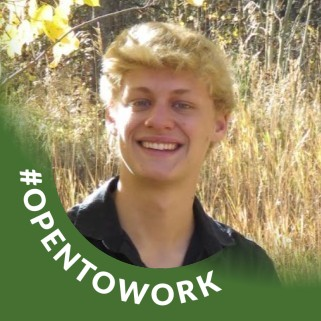
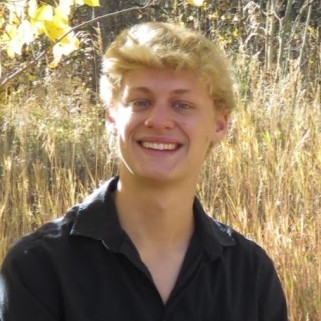
last minute check

Changed region(s): [[0.0, 0.0935, 1.0, 1.0]]

diff --git a/ProjectSourceCode/src/index.js b/ProjectSourceCode/src/index.js
@@ -204,7 +204,7 @@ app.get('/about', (req, res) => {
         'https://media.licdn.com/dms/image/D5603AQHY4U2MmD35hg/profile-displayphoto-shrink_800_800/0/1711482138961?e=2147483647&v=beta&t=N43M7l9f3tsz_f-D7BE08vtRAKMGxPsaNZcNzxMp6CI',
         'https://media.licdn.com/dms/image/C5603AQEGTJvp_niqCQ/profile-displayphoto-shrink_200_200/0/1662247464003?e=2147483647&v=beta&t=bM8TTrQBytKJZi2N-wBdqLGo-m3GR1eAbfdqZc-iM_w',
         'https://media.licdn.com/dms/image/C4D03AQFzu7y9zhO29A/profile-displayphoto-shrink_200_200/0/1642311954305?e=2147483647&v=beta&t=ivd1fuGpZF9KU0BbIzmVa1S3lo2l8DyRzX94cACtvkg',
-        'https://media.licdn.com/dms/image/D5635AQHYtCix-ktOpg/profile-framedphoto-shrink_800_800/0/1670401080783?e=1714003200&v=beta&t=LrRUgZ6f5M5Io1MqySqIHMAtEJEJ9UCpS8qSPAGlTYQ',
+        'https://media.licdn.com/dms/image/D5603AQEPxrZWUqE5lw/profile-displayphoto-shrink_800_800/0/1670399431398?e=1719446400&v=beta&t=4m0Q_1dxA2ZxvKGqyZU6imu1rmrnn0lWuKqDKE7WPjk',
         'https://media.licdn.com/dms/image/D4E03AQHtTMFIgqcz4A/profile-displayphoto-shrink_200_200/0/1701419718076?e=2147483647&v=beta&t=0mG_Z5-DSD0_uija3-nhbnNjlr-12utPemPOJXkTZ0I',
 ] 
   });
@@ -228,10 +228,10 @@ app.get('/nfl' , async (req, res) => {
 });
 
 // app.get('/nfl' , async (req, res) => {
-  // if (!req.session.user) {
-  //   // Redirect to login page
-  //   return res.redirect('/login');
-  // }
+//   if (!req.session.user) {
+//     // Redirect to login page
+//     return res.redirect('/login');
+//   }
 
 //   var axios = require('axios');
   
@@ -316,10 +316,10 @@ app.get('/nba' , async (req, res) => {
 
 // app.get('/nba' , async (req, res) => {
 
-  // if (!req.session.user) {
-  //   // Redirect to login page
-  //   return res.redirect('/login');
-  // }
+//   if (!req.session.user) {
+//     // Redirect to login page
+//     return res.redirect('/login');
+//   }
 
 //   var axios = require('axios');
   
